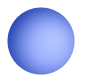
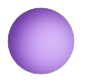
Updated

diff --git a/assets/css/style.css b/assets/css/style.css
@@ -87,8 +87,8 @@ Version: 1.0.0
 /*------------------- 1.2. Function -------------------*/
 /*------------------- 1.3. Variable-------------------*/
 :root {
-  --theme-color: #470175;
-  --theme-color2: #470175;
+  --theme-color: #680fa7;
+  --theme-color2: #680fa7;
   --title-color: #141D38;
   --body-color: #737887;
   --smoke-color: #F5F5F5;

diff --git a/assets/sass/base/_variable.scss b/assets/sass/base/_variable.scss
@@ -1,6 +1,6 @@
 :root {
-  --theme-color         : #470175;
-  --theme-color2        : #470175;
+  --theme-color         : #680fa7;
+  --theme-color2        : #680fa7;
   --title-color         : #141D38;
   --body-color          : #737887;
   --smoke-color         : #F5F5F5;
